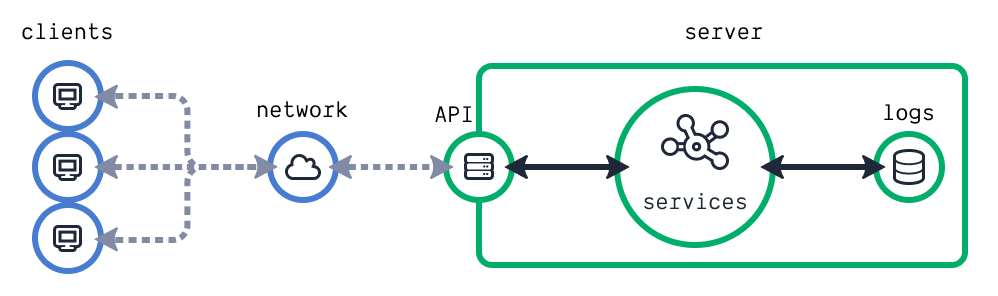
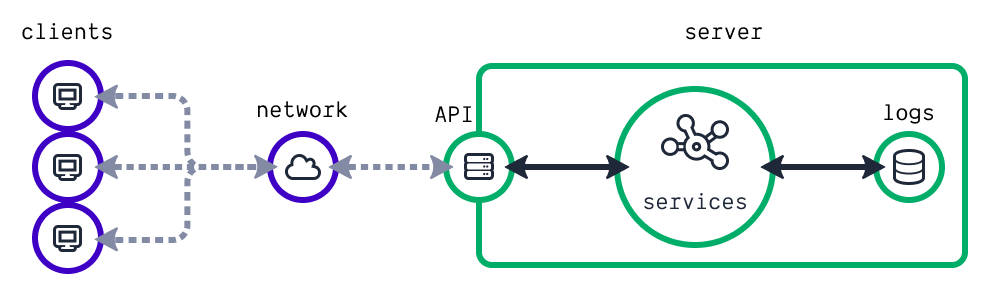
changes to the architecture article

diff --git a/src/styles/vars.scss b/src/styles/vars.scss
@@ -9,8 +9,10 @@
   --gray-500: #1f2839;
   --gray-600: #011626;
 
-  --primary: #1bcd72;
-  --secondary: #3f00c6;
+  // --primary: #1bcd72;
+  --primary: #6abe83;
+  // --secondary: #3f00c6;
+  --secondary: #01bbba;
 
   --sans-serif: proxima-nova, system-ui, -apple-system, BlinkMacSystemFont,
     'Segoe UI', 'Roboto', 'Helvetica Neue', 'Arial', sans-serif;

diff --git a/src/pages/blog/scalable-front-end-architecture.md b/src/pages/blog/scalable-front-end-architecture.md
@@ -28,22 +28,19 @@ We expect modern front-end applications to do more and more of the heavy lifting
 
 ## Filling in the details
 
-Our goal as front-end developers is to provide value to our users by letting them interact with our work. When they do, the application routing will guide the user to the correct module. Each module can is a separate domain. Business logic shapes these domains. Various modules use this logic, such as retrieving data from a back-end service. This logic is thus placed in the application layer. This is the core setup of a scalable front-end architecture.
-
-When looking at a project structure, we can follow something like shown below. All code for the core layer is in the `app` directory. While all modules have a directory in the `modules` directory. Reusable UI components (e.g. tables) that do not rely on business logic are in the `components` directory.
+Our goal as front-end developers is to provide value to our users by letting them interact with our work. When they do, the application routing will guide the user to the correct module. Each module can is a separate domain. Business logic shapes these domains. Various modules use this logic, such as retrieving data from a back-end service. This logic is thus placed in the application layer. This is the core setup of a scalable front-end architecture. The architecture resolves around three directories. The `core` directory holds all code for the displayed core layer, while the `modules` directory holds all the different modules based on the different identified domains. Lastly, there is the `styles` directory. Many prefer something like `CSS-in-JS` or [styled-components](https://www.styled-components.com/). I prefer a solid CSS architecture, such as [Harry Roberts' ITCSS](https://csswizardry.com/2018/11/itcss-and-skillshare/), that follows the SoC mindset of the architecture. As you can see, there are many other different directories present in the architecture. Depending on the framework or the use case, directories like `hooks` (for React Hooks) or `mocks` (for mock data during development) can be included in the project.
 
 ```
 src/
-├── assets/
-├── components/
-├── config/
+├── assets/        // e.g. images
+├── components/    // generic reusable UI components
+├── config/        // configurations for different builds
+├── constants/     // holds constants and static data
 ├── core/
-├── utils/
+├── utils/         // generic JavaScript helper functions
 ├── modules/
 └── styles/
 ```
-
-The remaining directories hold our static `assets` (e.g. images), configuration files in `config` (e.g. one for development and one for production), or helper functions and constants in `utils`. These can differ from simple utility functions to complex auto-layout logic for graphs, or even hold generic React Hooks. Finally, we have a `styles` directory. Many prefer something like `CSS-in-JS` or [styled-components](https://www.styled-components.com/). I prefer a solid CSS architecture, such as [Harry Roberts' ITCSS](https://csswizardry.com/2018/11/itcss-and-skillshare/), that follows the SoC mindset of the architecture.
 
 The above does not look like something special. This is a standard modular approach for development. But, by zooming in on a module and the core layer, the architecture shines. Below I zoomed in on the core layer and a single module. In the rest of this blog post, I discuss each of the different topics and the ideas behind them. The dotted connections are optional connections that you can use when you want a less complex architecture. In this case, the pub/sub and workers are removed from the architecture and actions directly talk o the stores and API clients.
 
@@ -59,16 +56,20 @@ On the other side, we have one or more API clients. Some of our projects have a 
 
 A pub/sub can be used with many different goals in mind. It can loosely couple your modules from various API clients for instance. This ensures one uniform way to use API calls across your application, regardless of the API clients you are using. But, the pub/sub can have different purposes as well. When your application has an 'auto sign out' feature based on inactivity, the pub/sub can easily be used to reset the timer on different actions. Or you can use it to synchronous concurrent API calls at the moment you need to refresh your authentication first. And when you use a package like [Pubbel](https://github.com/kevtiq/pubbel) as your pub/sub, you can use it to synchronize events across browser window tabs without persisting data in your `localStorage`.
 
-A corresponding project structure for the `core` directory can be something like:
+A corresponding project structure for the `core` directory can be something like displayed below. This is an example from one of my recent projects, although it did not include a (redux) store, as it used the cache from the GraphQL API client.
 
 ```
 .
 └── core/
-    ├── apis/
-    ├── events/
-    ├── stores/
+    ├── api/
+    │   ├── grapql/
+    │   ├── my-external-api/
     ├── workers/
-    └── index.js
+    ├── events.js                // e.g. auto signout on inactivity
+    ├── history.js
+    ├── pubsub.js
+    ├── store.js                 // e.g. redux store configuration
+    └── tracker.js               // e.g. error tracker
 ```
 
 Most directories within the `core` folder should be self-explanatory by now. The `stores` directory holds all different types of persistant information for the application (e.g. session or system tracker). The `events` directory holds all scheduled events (e.g. an auto sign out event). The displayed PubSub is invoked and exposed in the `index.js` file of the `core` directory.

diff --git a/src/pages/blog/drafts/resilient-front-end-applications.md b/src/pages/blog/drafts/resilient-front-end-applications.md
@@ -1,0 +1,72 @@
+---
+templateKey: blog-post
+title: Resilient front-end applications
+pinned: true
+draft: true
+date: 2020-03-01T00:00:00.000Z
+featuredImage: request-times.png
+description: >-
+  Keeping our applications healthy and reliable is complex, and difficult to achieve
+tags:
+  - resilience
+  - reliability
+  - logging
+---
+
+Our smartphones and computers are become powerful every year. We see the increase in power back on the web. Our front-end applications are becoming bigger and more complex. Previously, I have written about a [scalable architecture](/blog/scalable-front-end-architecture/) for front-end applications. A scalable architecture is a good first step towards a reliable and resilient applications. But we, as engineers, are responsible to maintain a single code-base that runs many different environments. How can we know what is going on within our applications when others are using it? And if we don't know what is happening on the inside, how ca we determine what needs to be improved?
+
+## Client(s) vs. server
+
+Errors are the most common candidates for improvement. We have all had it, those error reports from users that were impossible to reproduce. Even worse, the logs on the server show nothing that went wrong. How is this possible? Welle, not all errors occur on the server. Our front-end applications are becoming more powerful, and therefore execute a lot more logic that before. But, the front-end code is executed not on the server, but in the browser of the user. This means that front-end errors occur locally, and not on the server. This makes it always a struggle to get a clear picture of what happened, as we don't have access to the browser of the user.
+
+![Client-side versus server-side](/img/client-vs-server.png 'Client-side versus server-side')
+
+A few years ago, this would be a fine situation. Most of the logic was running on the server anyways. However, we are creating big single-page applications running a lot of our logic and sometimes even exist in a [serverless](https://serverless.com/) setup. And the worse part of it? These applications are running on countless different environments. If we want to keep our front-end applications healthy and reliable, we have to become more mature. We have to start monitoring our front-end in a similar way as we do with our server. In the end, it's all about the users' perception.
+
+## Capturing and handling (front-end) errors
+
+Many different errors can happen in the front-end. Some are coming from our server (e.g. a 400 - Bad Request). In this case, the error is also logged on the server level. But what happens if we have a '_cannot read property of undefined_' `JavaScript` error? Or when we perform a faulty GraphQL error? These errors never reach the server, but greatly impact the experience of our users. Some of these errors might even be triggered by the environment of the user, such as a missing [polyfill](https://developer.mozilla.org/en-US/docs/Glossary/Polyfill) for Internet Explorer. Capturing errors in front-end development can be achieved in various ways:
+
+- Use a `try - catch` block around dedicated features (e.g. AJAX requests);
+- Use a high level wrapper around your application that gives you control on what is presented to the user (e.g. [React Error Boundaries](https://reactjs.org/docs/error-boundaries.html));
+- Capture all errors on `window` level using the code-snippet displayed below (although this also captures errors from browser extensions).
+
+```js
+window.addEventListener('error', function(event) {});
+window.addEventListener('unhandledrejection', function(event) {});
+```
+
+But why should you capture and handle errors in the first place? The biggest reason is your user. You enable yourself to maintain a good user experience, even in the event of an error. You can provide a proper message, show it visually on the screen, or ensure only a small part of your application is not working.
+
+But handling errors does not solve our issue around issues that cannot be reproduced. We need to log the errors as well.
+
+- We can see what errors occur and how often
+- We can prioritize the most critical errors
+- we can reduce the load on the server by mitigating errors
+
+> Why log them and what should we log? Environment (what?? OS, browser, page) + 'crumbs'
+
+## Logging and monitoring of user interaction
+
+- Page changes;
+- Start of a request to our own system or external services;
+- Incoming responses;
+- Start/finish of web and service workers.
+
+- increase debug capability during development
+
+> I found that a particular request was executed twice, of which one would always fail. The breadcrumbs provided the insights for this analysis.
+
+- Show which pages are used the most;
+- Peak moments based on page visits;
+- Show which requests are performed the most;
+- The average response time of requests;
+- Peak moments based on response time.
+
+![An overview of response times and the amount of requests](/img/request-times.png 'An overview of response times and the amount of requests')
+
+## Introducing vitamins?
+
+## Conclusion
+
+...

diff --git a/src/pages/blog/2020-new-years-resolution.md b/src/pages/blog/2020-new-years-resolution.md
@@ -5,7 +5,7 @@ draft: false
 date: 2020-01-01T00:00:00.000Z
 featuredImage: new-years-resolution.png
 description: >-
-  Reliability and resilience first, going fast second.
+  Reliability and resilience first, going fast second
 tags:
   - writing
 ---
